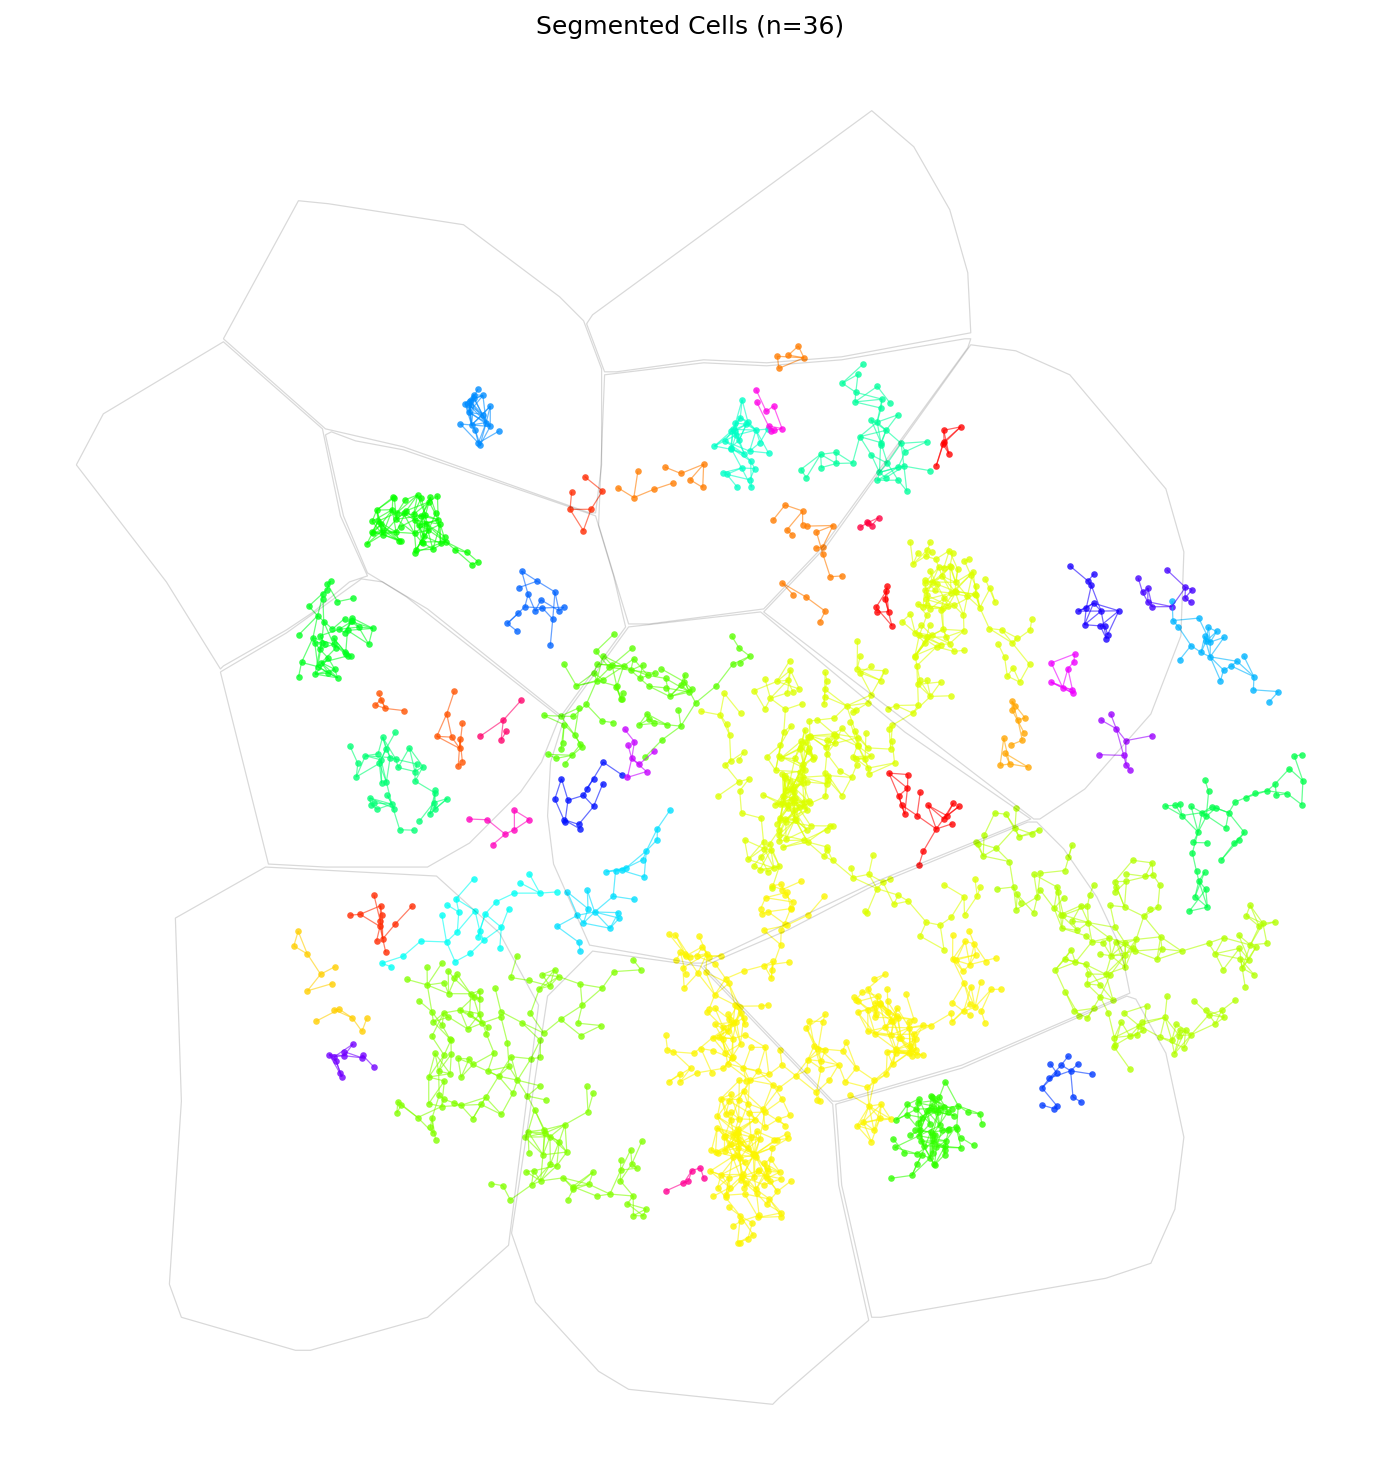
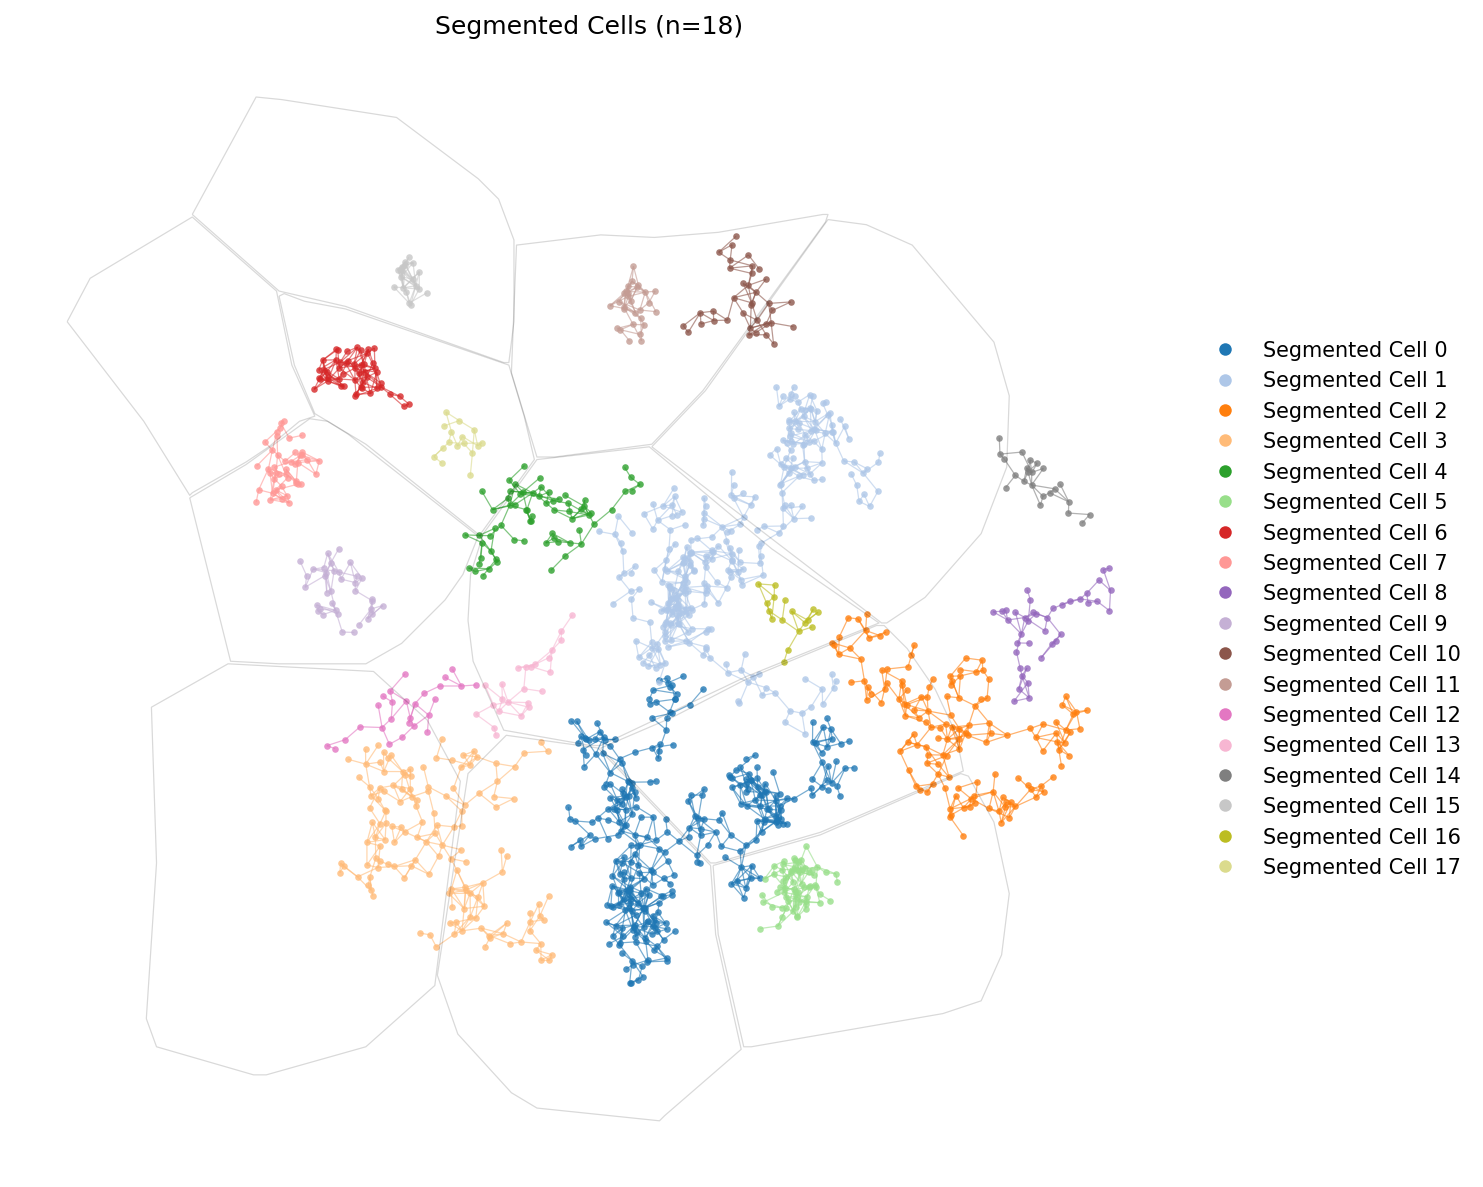
Add tutorials

diff --git a/examples/refine_segmentation.py b/examples/refine_segmentation.py
@@ -192,7 +192,7 @@ def main():
         npmi_long=pair_counts_df,
         df_local=df_local,
         purity_threshold=0.05,
-        min_cc_size=5,
+        min_cc_size=15,
         return_matrix=True,
         return_node_mapping=True,
     )
